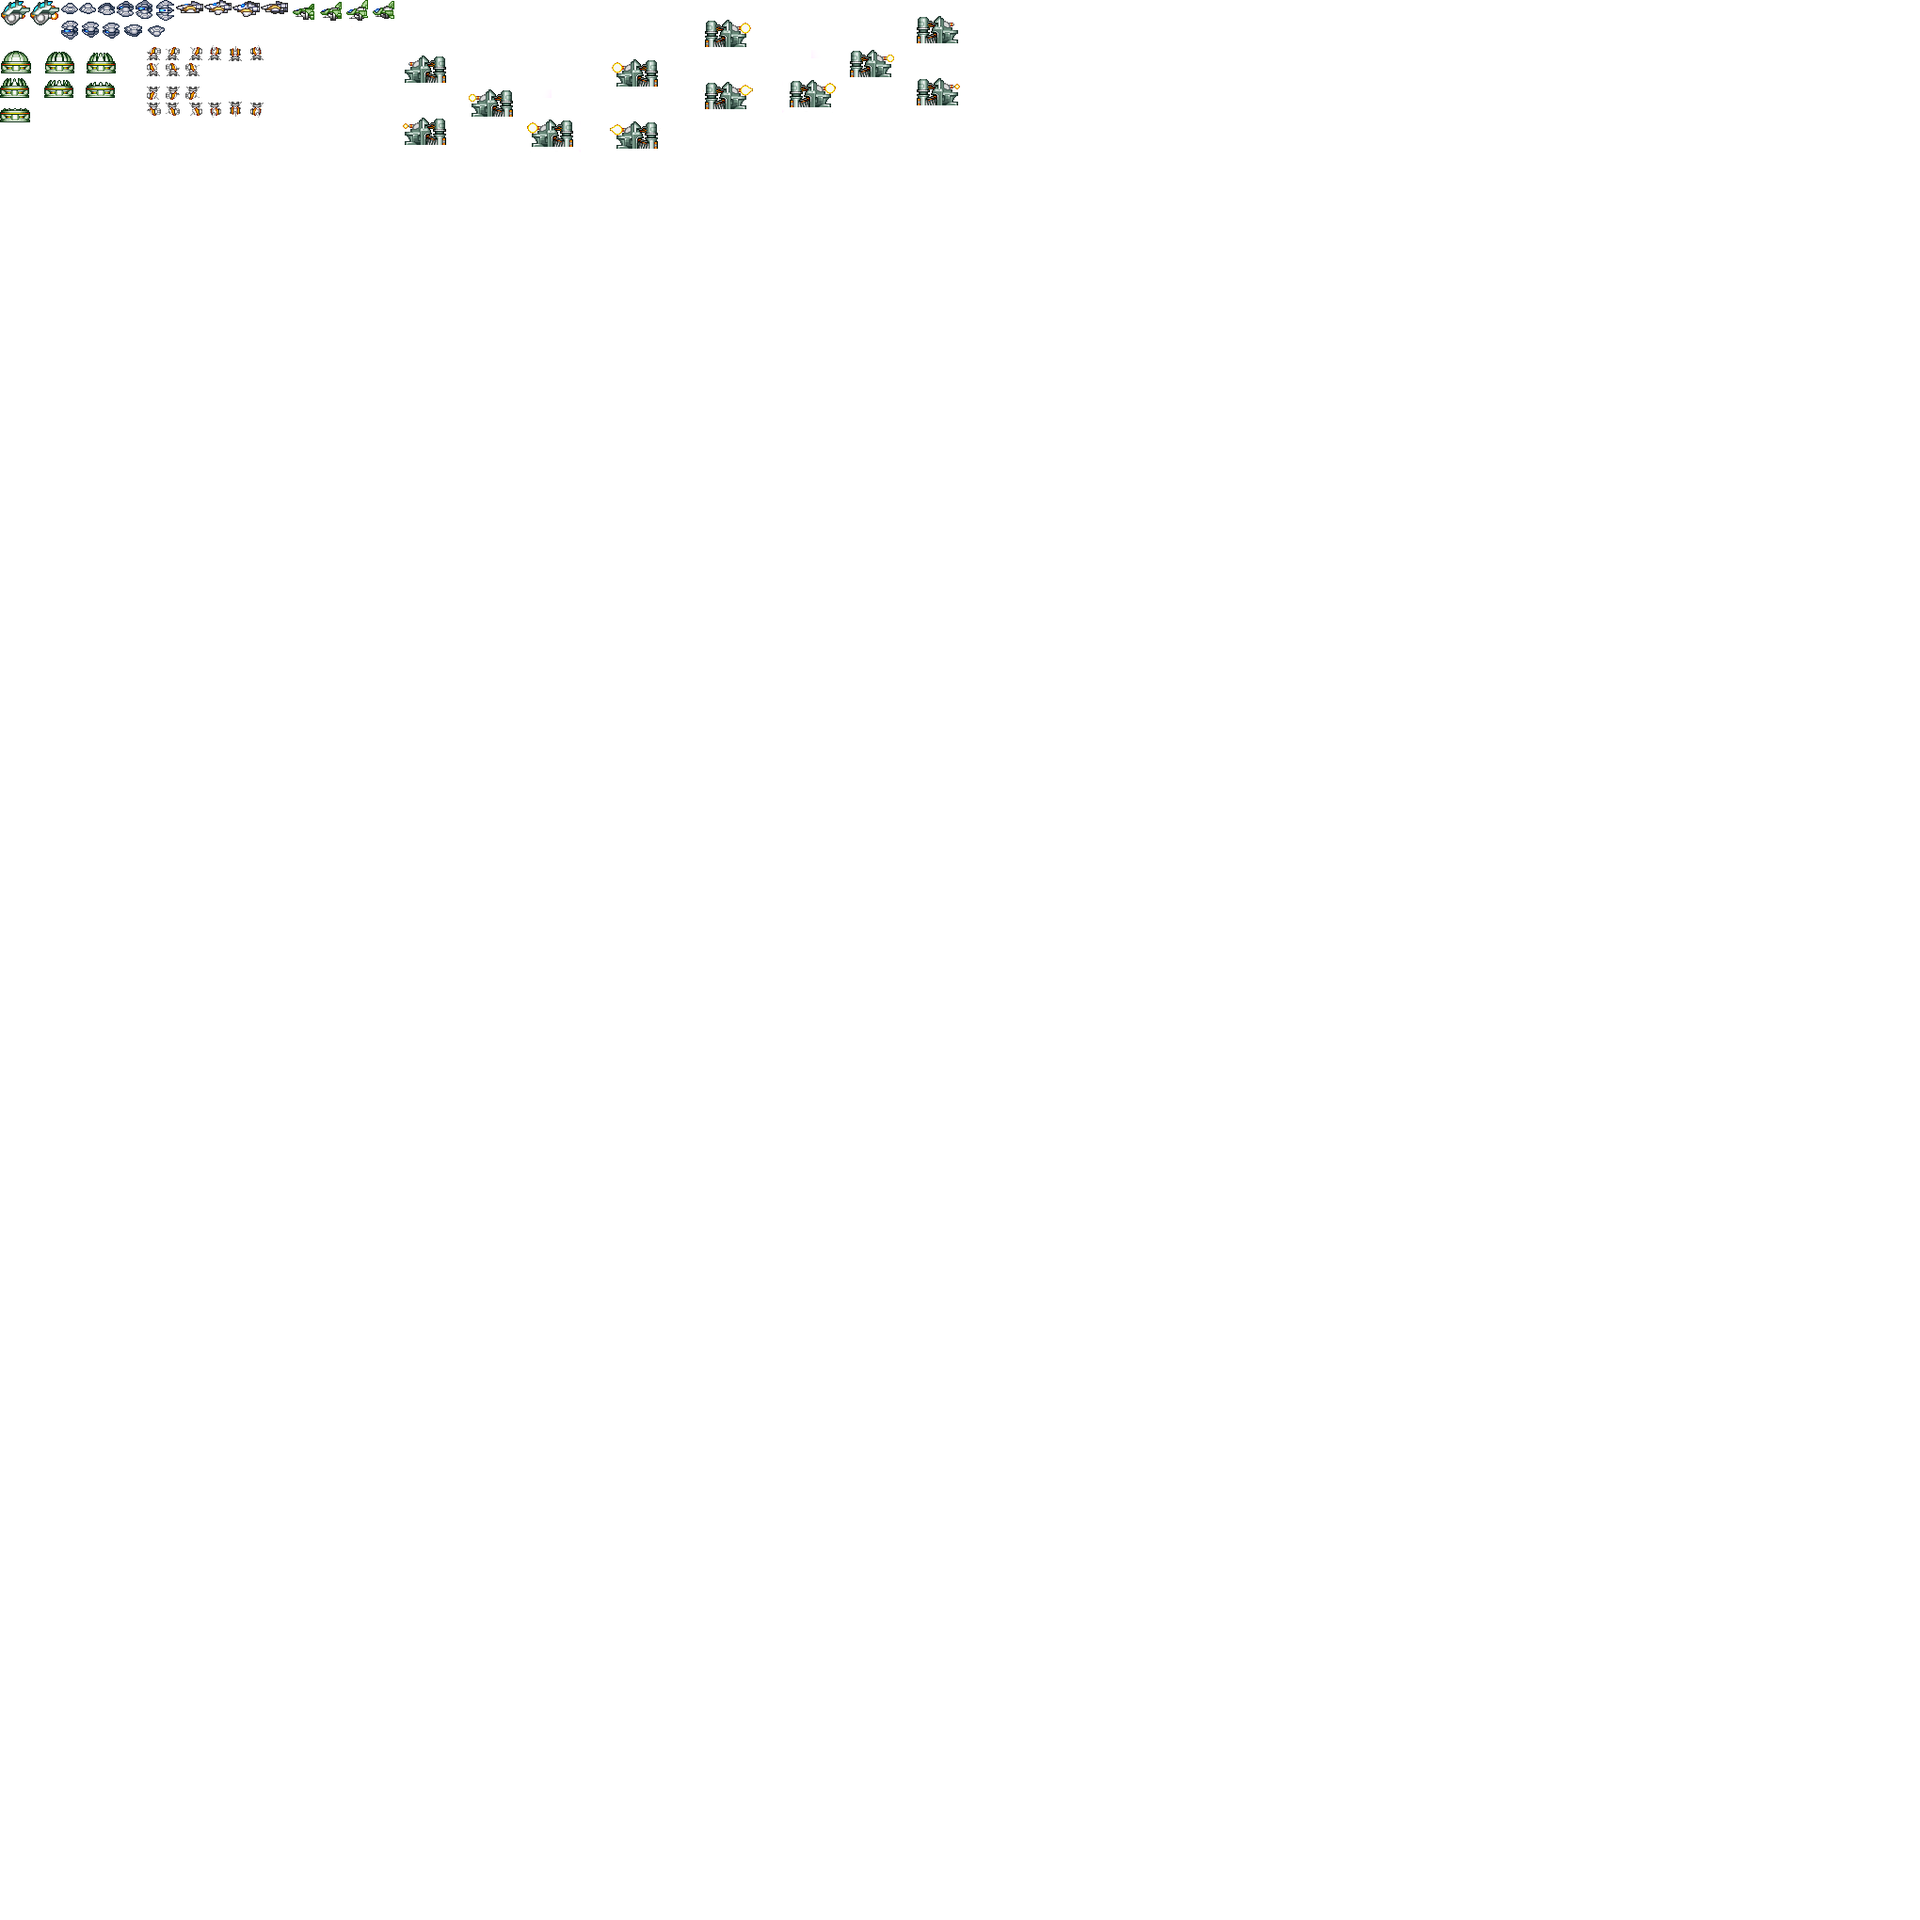
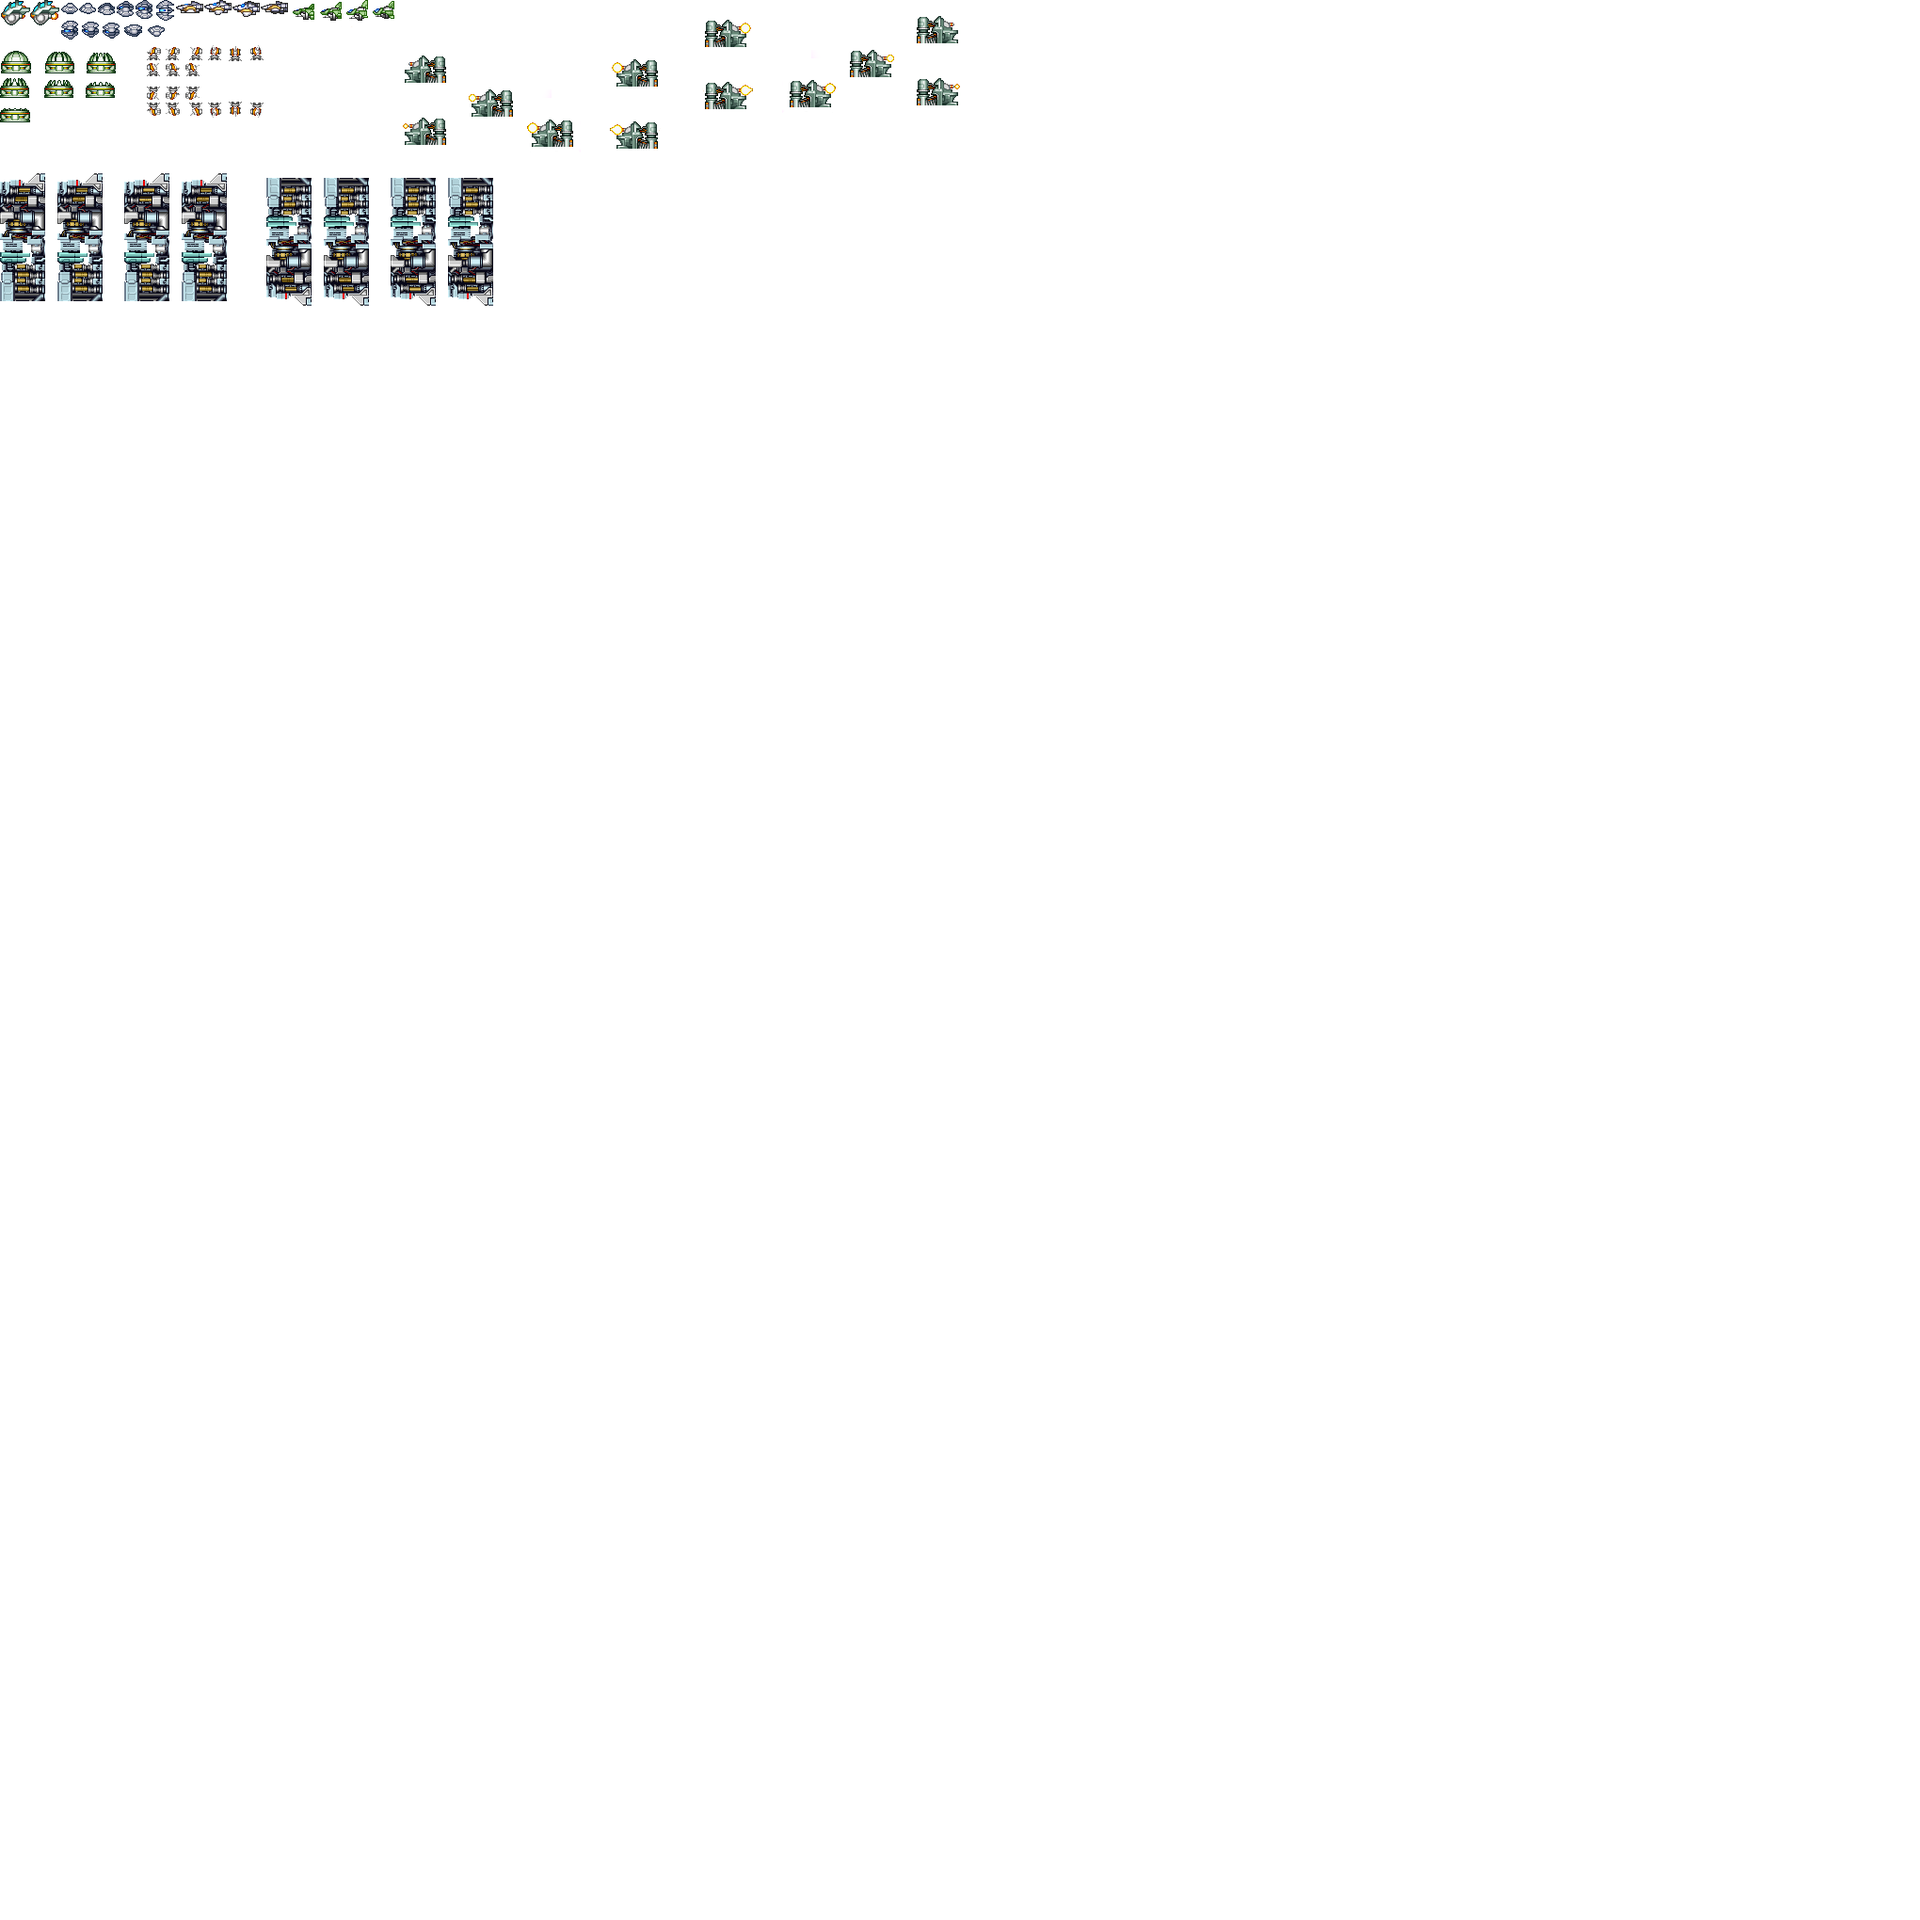
Structures

Changed region(s): [[0.0, 0.0926, 0.2779, 0.1544]]

diff --git a/--AndroDunos--#GAME_FILES#/ModuleStage2.cpp b/--AndroDunos--#GAME_FILES#/ModuleStage2.cpp
@@ -110,7 +110,7 @@ bool ModuleStage2::Start()
 	mus = App->audio->LoadMusic("assets/Stage-2/07_Stage_2-Mechanized-Unit-Loop.ogg");
 
 	App->audio->PlayMusic(mus);
-
+	
 	return true;
 }
 
@@ -153,15 +153,15 @@ update_status ModuleStage2::Update()
 		}
 	}
 
-	if ((App->render->camera.x >= 3680 * SCREEN_SIZE && App->render->camera.x <= 3682 * SCREEN_SIZE && App->render->camera.y == 0)
+	if ((App->render->camera.x >= 3637 * SCREEN_SIZE && App->render->camera.x <= 3639 * SCREEN_SIZE && App->render->camera.y == 0)
 		|| (App->render->camera.x >= 8945 * SCREEN_SIZE && App->render->camera.y >= 279))
 	{
 		stop_p = true; // stop scrolling in x axes
 	}
-	else if ((App->render->camera.x >= 3680 * SCREEN_SIZE && App->render->camera.x <= 3682 * SCREEN_SIZE && App->render->camera.y >= 279 * SCREEN_SIZE)
+	else if ((App->render->camera.x >= 3637 * SCREEN_SIZE && App->render->camera.x <= 3639 * SCREEN_SIZE && App->render->camera.y >= 279 * SCREEN_SIZE)
 		|| (App->render->camera.x >= 8945 * SCREEN_SIZE && App->render->camera.x <= 8947 * SCREEN_SIZE && App->render->camera.y == 0)) stop_p = false; // enable scroll in x axes
 
-	if ((App->render->camera.x >= 3680 * SCREEN_SIZE && App->render->camera.x <= 3682 * SCREEN_SIZE  && App->render->camera.y <= 279 * SCREEN_SIZE)
+	if ((App->render->camera.x >= 3437 * SCREEN_SIZE && App->render->camera.x <= 3439 * SCREEN_SIZE  && App->render->camera.y <= 279 * SCREEN_SIZE)
 		|| (App->render->camera.x >= 5658 * SCREEN_SIZE && App->render->camera.x <= 5814 * SCREEN_SIZE)
 		|| (App->render->camera.x >= 7580 * SCREEN_SIZE && App->render->camera.x <= 7857 * SCREEN_SIZE))
 	{
@@ -184,7 +184,7 @@ update_status ModuleStage2::Update()
 		{
 			App->player2->position.y -= 1;
 		}
-	}
+	} //movement 
 
 	if (App->player->position.x >= 11200 || App->player2->position.x >= 11200)
 	{

diff --git a/--AndroDunos--#GAME_FILES#/Enemy_VerticalStructure.cpp b/--AndroDunos--#GAME_FILES#/Enemy_VerticalStructure.cpp
@@ -1,0 +1,65 @@
+#include "Application.h"
+#include "Enemy_VerticalStructure.h"
+#include "ModuleCollision.h"
+#include "ModuleParticles.h"
+#include "ModuleEnemies.h"
+
+Enemy_VerticalStructure::Enemy_VerticalStructure(int x, int y, bool z) : Enemy(x, y)
+{
+	type = VERTICALSTRUCTURE;
+
+	if (z) {
+		fly.PushBack({ 0,184,48,136 });
+		fly.PushBack({ 61,184,48,136 });
+		fly.PushBack({ 132,184,48,136 });
+		fly.PushBack({ 193,184,48,136 });
+		fly.speed = 0.05f;
+		animation = &fly;
+		up = true;
+	}
+	else {
+		fly2.PushBack({ 283,189,48,136 });
+		fly2.PushBack({ 344,189,48,136 });
+		fly2.PushBack({ 415,189,48,136 });
+		fly2.PushBack({ 476,189,48,136 });
+		fly2.speed = 0.05f;
+		fly2.speed = 0.05f;
+		animation = &fly2;
+	}
+	 
+	
+	collider = App->collision->AddCollider({ 0, 0, 48, 136 }, COLLIDER_TYPE::COLLIDER_ENEMY, (Module*)App->enemies);
+	original_y = y;
+}
+
+void Enemy_VerticalStructure::Move()
+{
+	if (up) {
+		if (stop == false) {
+			position.y -= 1;
+		}
+
+		if (position.y == 90) {
+			stop = true;
+		}
+		if (stop) {
+			position.y = position.y;
+		}
+	}
+	else {
+		if (stop == false) {
+			position.y += 1;
+		}
+
+		if (position.y == 0) {
+			stop = true;
+		}
+		if (stop) {
+			position.y = position.y;
+		}
+	}
+}
+
+void Enemy_VerticalStructure::OnCollision(Collider* collider) {
+	App->particles->AddParticle(App->particles->explosion, position.x, position.y);
+}

diff --git a/--AndroDunos--#GAME_FILES#/ModuleEnemies.cpp b/--AndroDunos--#GAME_FILES#/ModuleEnemies.cpp
@@ -12,6 +12,7 @@
 #include "Enemy_GreenTurret.h"
 #include "Enemy_ShipTurret.h"
 #include "Enemy_WhiteTurret.h"
+#include "Enemy_VerticalStructure.h"
 #include "ModulePlayer.h"
 
 
@@ -155,6 +156,9 @@ void ModuleEnemies::SpawnEnemy(const EnemyInfo& info)
 		case ENEMY_TYPES::WHITETURRET:
 			enemies[i] = new Enemy_WhiteTurret(info.x, info.y);
 			break;
+		case ENEMY_TYPES::VERTICALSTRUCTURE:
+			enemies[i] = new Enemy_VerticalStructure(info.x, info.y, info.z);
+			break;
 		}
 		
 
@@ -212,6 +216,11 @@ void ModuleEnemies::OnCollision(Collider* c1, Collider* c2)
 				enemies[i] = nullptr;
 				break;
 			case WHITETURRET:
+				enemies[i]->OnCollision(c2);
+				delete enemies[i];
+				enemies[i] = nullptr;
+				break;
+			case VERTICALSTRUCTURE:
 				enemies[i]->OnCollision(c2);
 				delete enemies[i];
 				enemies[i] = nullptr;

diff --git a/--AndroDunos--#GAME_FILES#/ModuleEnemies.h b/--AndroDunos--#GAME_FILES#/ModuleEnemies.h
@@ -9,6 +9,7 @@
 #include "Enemy_GreenTurret.h"
 #include "Enemy_ShipTurret.h"
 #include "Enemy_WhiteTurret.h"
+#include "Enemy_VerticalStructure.h"
 
 #define MAX_ENEMIES 100
 
@@ -36,7 +37,7 @@ public:
 	update_status PostUpdate();
 	bool CleanUp();
 	void OnCollision(Collider* c1, Collider* c2);
-	bool tocuh = false, dead = false;;
+	bool tocuh = false, dead = false, verticalstructuredead = false;
 	bool AddEnemy(ENEMY_TYPES type, int x, int y, bool z= false);
 
 private:

diff --git a/--AndroDunos--#GAME_FILES#/Enemy_VerticalStructure.h b/--AndroDunos--#GAME_FILES#/Enemy_VerticalStructure.h
@@ -1,0 +1,25 @@
+#ifndef __ENEMY_VERTICALSTRUCTURE_H__
+#define __ENEMY_VERTICALSTRUCTURE_H__
+
+#include "Enemy.h"
+#include "Path.h"
+
+class Enemy_VerticalStructure : public Enemy
+{
+private:
+	float wave = -1.0f;
+	bool stop = false;
+	int original_y = 0;
+	Animation fly, fly2;
+	bool up;
+	
+
+public:
+
+	Enemy_VerticalStructure(int x, int y, bool z);
+	void OnCollision(Collider* collider);
+	void Move();
+};
+
+#endif 
+

diff --git a/--AndroDunos--#GAME_FILES#/Path.h b/--AndroDunos--#GAME_FILES#/Path.h
@@ -30,7 +30,12 @@ public:
 		steps[last_step].frames = frames;
 		steps[last_step++].speed = speed;
 	}
-
+	void Sprite(fPoint speed, uint frames, Animation* animation = nullptr)
+	{
+		steps[last_step].animation = animation;
+		steps[last_step].frames = frames;
+		steps[last_step].speed = speed;
+	}
 	iPoint GetCurrentSpeed(Animation** current_animation = nullptr)
 	{
 		current_frame += 1;

diff --git a/--AndroDunos--#GAME_FILES#/ModulePlayer.cpp b/--AndroDunos--#GAME_FILES#/ModulePlayer.cpp
@@ -294,7 +294,7 @@ update_status ModulePlayer::Update()
 
 	if (App->input->keyboard[SDL_SCANCODE_E] == KEY_STATE::KEY_DOWN)
 	{
-		App->enemies->AddEnemy(ENEMY_TYPES::WHITETURRET, position.x + 250, position.y, 1);
+		App->enemies->AddEnemy(ENEMY_TYPES::VERTICALSTRUCTURE, position.x + 250, position.y -200 , false);
 		
 	}
 

diff --git a/--AndroDunos--#GAME_FILES#/Enemy_WhiteTurret.cpp b/--AndroDunos--#GAME_FILES#/Enemy_WhiteTurret.cpp
@@ -10,8 +10,6 @@ Enemy_WhiteTurret::Enemy_WhiteTurret(int x, int y): Enemy(x, y)
 {
 	type = WHITETURRET;
 
-	anim = 1;
-	
 	collider = App->collision->AddCollider({ 0, 0, 15, 14 }, COLLIDER_TYPE::COLLIDER_ENEMY, (Module*)App->enemies);
 
 	original_pos.x = x;

diff --git a/--AndroDunos--#GAME_FILES#/Globals.h b/--AndroDunos--#GAME_FILES#/Globals.h
@@ -31,6 +31,7 @@ enum ENEMY_TYPES
 	GREENTURRET,
 	SHIPTURRET,
 	WHITETURRET,
+	VERTICALSTRUCTURE,
 };
 
 // Useful typedefs ---------
